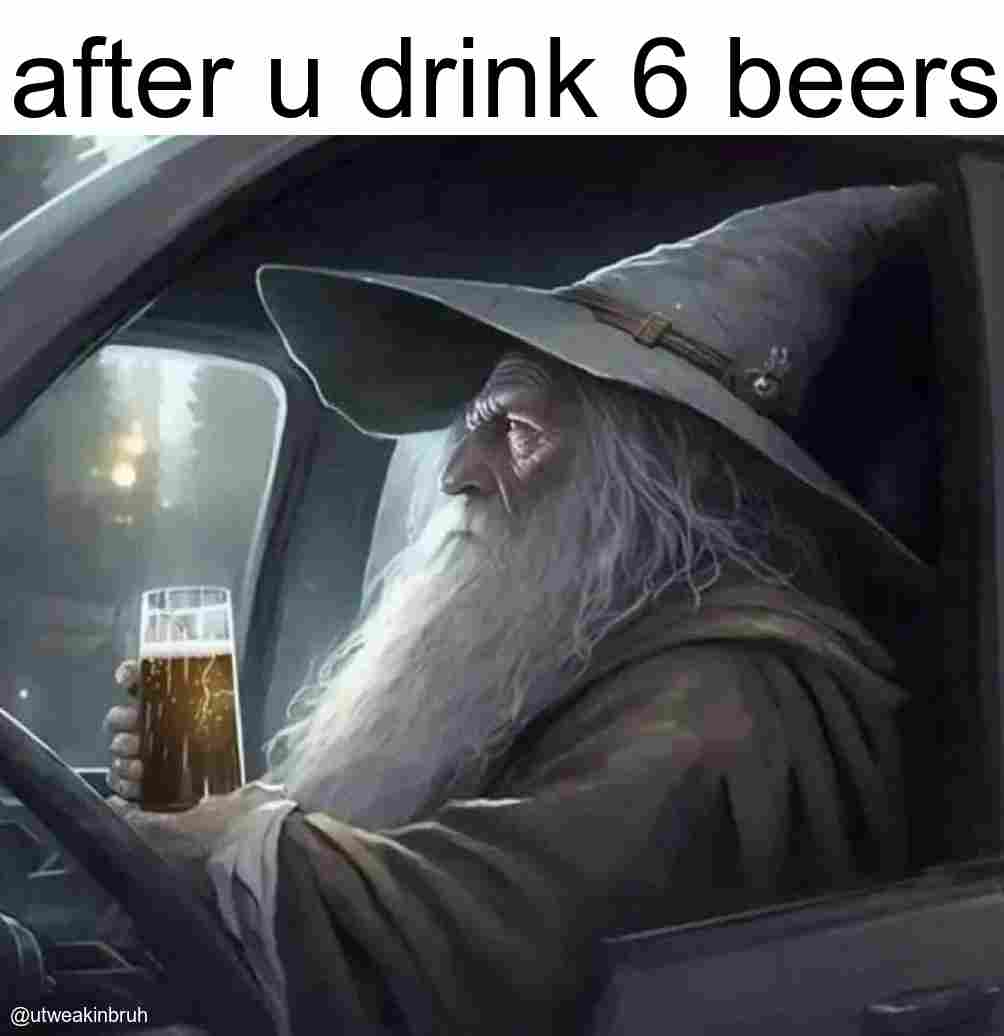
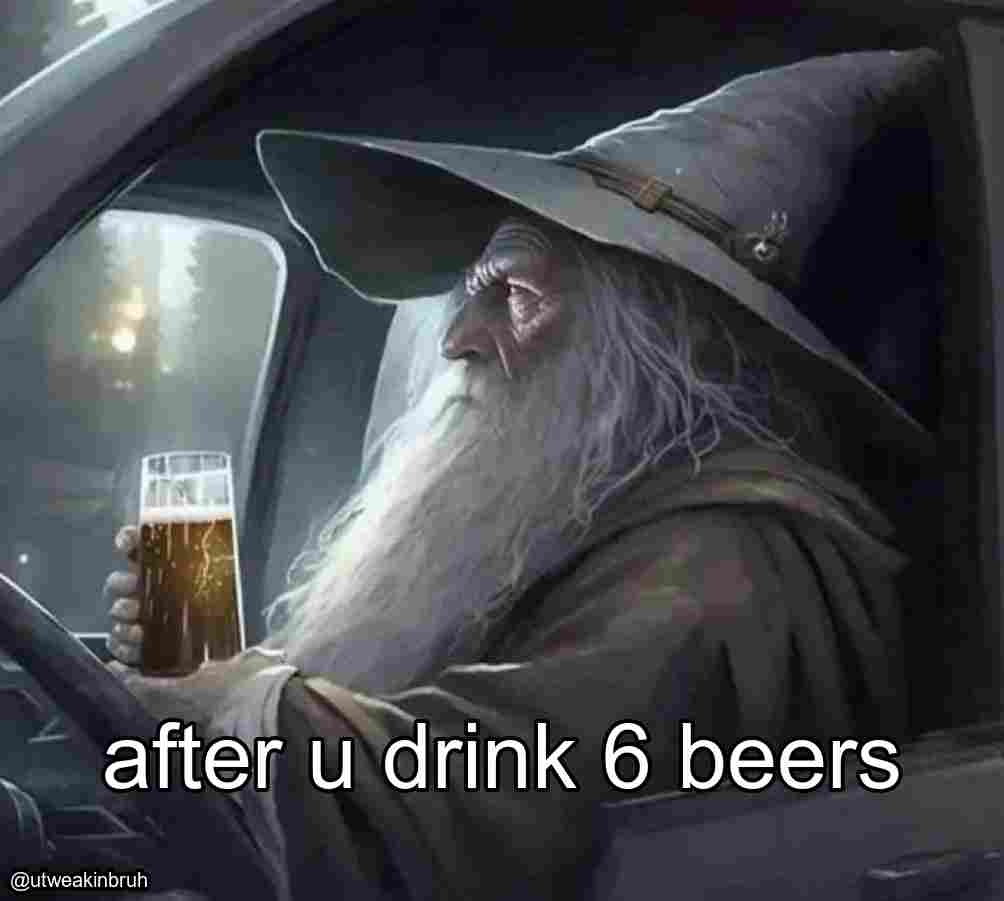
added additional parameters for meme types and text positioning

diff --git a/memeify.py b/memeify.py
@@ -1,4 +1,6 @@
-from PIL import Image, ImageDraw, ImageFont, ImageOps
+import argparse
+import os
+from PIL import Image, ImageDraw, ImageFont
 
 # Function to calculate the text size
 def scale_font(draw, caption, box_width, max_font_size=None):
@@ -12,46 +14,97 @@ def scale_font(draw, caption, box_width, max_font_size=None):
         font = ImageFont.truetype('arial.ttf', font_size)
     return font
 
-# Prompt user for image file
-image_file = input("Enter the image file name: ")
+# Parse command-line arguments
+parser = argparse.ArgumentParser(description='Create a meme image')
+parser.add_argument('image_file', help='input image file')
+parser.add_argument('caption', help='caption for the image')
+parser.add_argument('watermark', help='watermark for the image')
+parser.add_argument('--meme_type', choices=['caption', 'overlay'], help='type of meme to generate')
+parser.add_argument('--text_position', choices=['top', 'bottom'], default='top', help='position of the caption text')
+args = parser.parse_args()
+
+# Get the full path of the input image file
+image_path = os.path.join('input/', args.image_file)
 
 # Open image from input folder
-img = Image.open(f'input/{image_file}')
+img = Image.open(image_path)
 
-# Prompt user for caption
-caption = input("Enter the caption for the image: ")
+if args.meme_type == "caption":
+    # Calculate the size of the caption box (just the width of the image and 15% of its height)
+    caption_height = int(img.height * 0.15)
+    caption_box = (img.width, caption_height)
 
-# Prompt user for a watermark
-watermark = input("Enter a watermark for the image: ")
+    # Create a new image for the caption
+    caption_img = Image.new('RGB', caption_box, color=(255, 255, 255))
 
-# Calculate the size of the caption box (just the width of the image and 15% of its height)
-caption_height = int(img.height * 0.15)
-caption_box = (img.width, caption_height)
+    # Draw the caption on the new image
+    draw = ImageDraw.Draw(caption_img)
+    font = scale_font(draw, args.caption, img.width - 20)  # calculate the scaled font size
+    text_height = font.getsize(args.caption)[1]
+    
+    if args.text_position == 'top':
+        text_position = (10, (caption_height - text_height) // 2)  # center text vertically with some padding
+    elif args.text_position == 'bottom':
+        text_position = (10, caption_height - text_height - 25)  # position it at the bottom with some padding
+    
+    black = (0, 0, 0)
+    draw.text(text_position, args.caption, fill=black, font=font)
 
-# Create a new image for the caption
-caption_img = Image.new('RGB', caption_box, color=(255, 255, 255))
+    # Append the images
+    final_img = Image.new('RGB', (img.width, img.height + caption_height))
+    
+    if args.text_position == 'top':
+        final_img.paste(caption_img, (0, 0))
+        final_img.paste(img, (0, caption_height))
+    elif args.text_position == 'bottom':
+        final_img.paste(img, (0, 0))
+        final_img.paste(caption_img, (0, img.height))
 
-# Draw the caption on the new image
-draw = ImageDraw.Draw(caption_img)
-font = scale_font(draw, caption, img.width - 20)  # calculate the scaled font size
-text_position = (10, (caption_height - font.getsize(caption)[1]) // 2)  # center text vertically with some padding
-black = (0, 0, 0)
-draw.text(text_position, caption, fill=black, font=font)
+    # Draw the watermark
+    draw = ImageDraw.Draw(final_img)
+    font = scale_font(draw, args.watermark, img.width - 20, max_font_size=20)  # calculate the scaled font size and limit it to 20
+    text_width, text_height = font.getsize(args.watermark)
+    white = (255, 255, 255)
+    if args.text_position == 'top':
+        watermark_position = (10, final_img.height - text_height - 10)  # position it at the bottom left corner of image with some padding
+    elif args.text_position == 'bottom':
+        watermark_position = (10, 10)  # position it at the top left corner of image with some padding
 
-# Append the images
-final_img = Image.new('RGB', (img.width, img.height + caption_height))
-final_img.paste(caption_img, (0, 0))
-final_img.paste(img, (0, caption_height))
+    draw.text(watermark_position, args.watermark, fill=white, font=font)
 
-# Draw the watermark
-draw = ImageDraw.Draw(final_img)
-font = scale_font(draw, watermark, img.width - 20, max_font_size=20)  # calculate the scaled font size and limit it to 20
-text_position = (10, final_img.height - font.getsize(watermark)[1] - 10)  # position it at the bottom left corner of image with some padding
-white = (255, 255, 255)
-draw.text(text_position, watermark, fill=white, font=font)
+elif args.meme_type == "overlay":
+    # Create a copy of the original image
+    final_img = img.copy()
+
+    # Draw the caption on top of the image
+    draw = ImageDraw.Draw(final_img)
+    font_size = min(img.width, img.height) // 10  # Adjust the font size based on the image size
+    font = ImageFont.truetype('arial.ttf', font_size)
+    text_width, text_height = font.getsize(args.caption)
+
+    if args.text_position == 'top':
+        text_position = ((img.width - text_width) // 2, img.height // 8)  # Center text horizontally and position it on the top half of the image
+    elif args.text_position == 'bottom':
+        text_position = ((img.width - text_width) // 2, img.height - text_height - img.height // 8)  # Center text horizontally and position it on the bottom half of the image
+
+    white = (255, 255, 255)
+    black = (0, 0, 0)
+    stroke_width = 4
+    draw.text(text_position, args.caption, fill=white, font=font, stroke_width=stroke_width, stroke_fill=black)
+
+
+    # Draw the watermark
+    font = scale_font(draw, args.watermark, img.width - 20, max_font_size=20)  # calculate the scaled font size and limit it to 20
+    text_width, text_height = font.getsize(args.watermark)
+    text_position = (10, img.height - text_height - 10)  # position it at the bottom left corner of image with some padding
+    draw.text(text_position, args.watermark, fill=white, font=font, stroke_width=stroke_width, stroke_fill=black)
+
+else:
+    print(f"Invalid meme type: {args.meme_type}")
+    exit(1)
 
 # Get original file name and extension
-file_name, file_ext = image_file.rsplit('.', 1)
+file_name, file_ext = args.image_file.rsplit('.', 1)
 file_ext = file_ext.upper()
 
 # Check if final image name already exists
